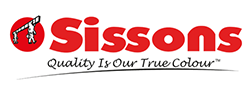
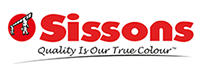
watermark resize

diff --git a/app/assets/html/canvas-paint-bucket.html b/app/assets/html/canvas-paint-bucket.html
@@ -469,7 +469,7 @@ var paintBucketApp = (function () {
 
 			if(e.share == 1)
 			{
-				context.drawImage(waterMarkImage, canvasWidth-250, 10, 250, 95);
+				context.drawImage(waterMarkImage, canvasWidth-200, 10, 200, 76);
 				var watermark = context.getImageData(0, 0, canvasWidth, canvasHeight);
 			}
 			
